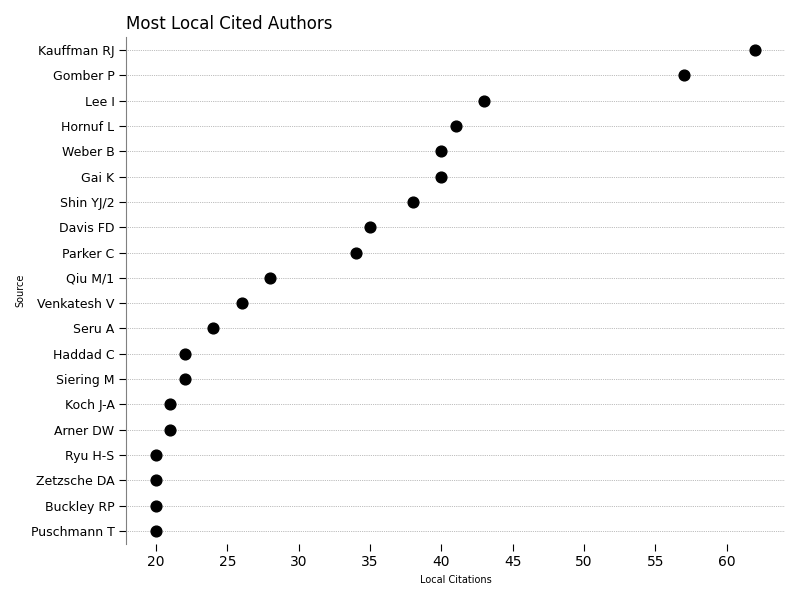
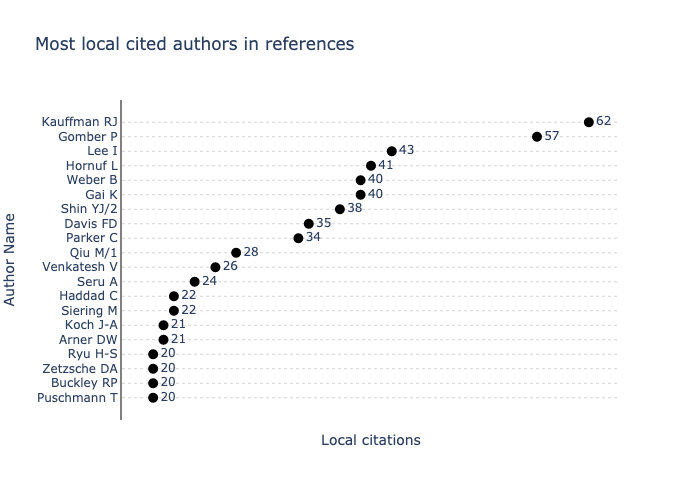
update to plotly

diff --git a/techminer2/most_local_cited_authors.py b/techminer2/most_local_cited_authors.py
@@ -1,48 +1,35 @@
 """
-Most Local Cited Authors
+Most Local Cited Authors in References (*)
 ===============================================================================
-
-Most local cited authors in references.
 
 >>> from techminer2 import *
 >>> directory = "data/"
 >>> file_name = "sphinx/images/most_local_cited_authors.png"
->>> most_local_cited_authors(directory=directory).savefig(file_name)
+>>> most_local_cited_authors(
+...     top_n=20,
+...     directory=directory,
+... ).write_image(file_name)
 
 .. image:: images/most_local_cited_authors.png
     :width: 700px
     :align: center
 
 
->>> most_local_cited_authors(directory=directory, plot=False).head(5)
-             local_citations
-authors                     
-Kauffman RJ               62
-Gomber P                  57
-Lee I                     43
-Hornuf L                  41
-Weber B                   40
-
-
-
 """
-from os.path import join
+import os.path
 
 import pandas as pd
-
-from ._cleveland_chart import _cleveland_chart
+import plotly.express as px
 
 
 def most_local_cited_authors(
     top_n=20,
-    color="k",
-    figsize=(8, 6),
     directory="./",
-    plot=True,
 ):
-
     indicators = pd.read_csv(
-        join(directory, "processed", "references.csv"), sep=",", encoding="utf-8"
+        os.path.join(directory, "processed", "references.csv"),
+        sep=",",
+        encoding="utf-8",
     )
     indicators = indicators[["authors", "local_citations"]]
     indicators = indicators.dropna()
@@ -51,15 +38,25 @@ def most_local_cited_authors(
     indicators = indicators.assign(authors=indicators.authors.str.strip())
     indicators = indicators.groupby("authors").sum()
     indicators = indicators.sort_values(by="local_citations", ascending=False)
-    if plot is False:
-        return indicators
-    indicators = indicators.local_citations.head(top_n)
+    indicators = indicators.head(top_n)
 
-    return _cleveland_chart(
-        indicators,
-        figsize=figsize,
-        color=color,
-        title="Most Local Cited Authors",
-        xlabel="Local Citations",
-        ylabel="Source",
+    fig = px.scatter(
+        x=indicators.local_citations,
+        y=indicators.index,
+        title="Most local cited authors in references",
+        text=indicators.local_citations,
+        labels={"x": "Local citations", "y": "Author Name"},
     )
+    fig.update_traces(marker=dict(size=10, color="black"))
+    fig.update_traces(textposition="middle right")
+    fig.update_traces(line=dict(color="black"))
+    fig.update_layout(paper_bgcolor="white", plot_bgcolor="white")
+    fig.update_yaxes(
+        linecolor="gray",
+        linewidth=2,
+        gridcolor="lightgray",
+        autorange="reversed",
+        griddash="dot",
+    )
+    fig.update_xaxes(showticklabels=False)
+    return fig
